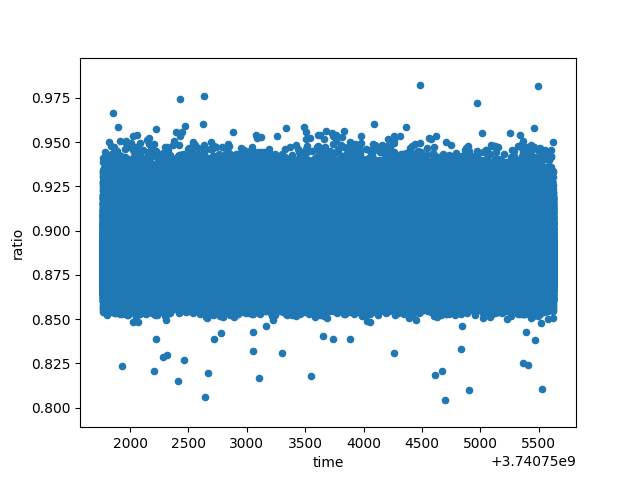
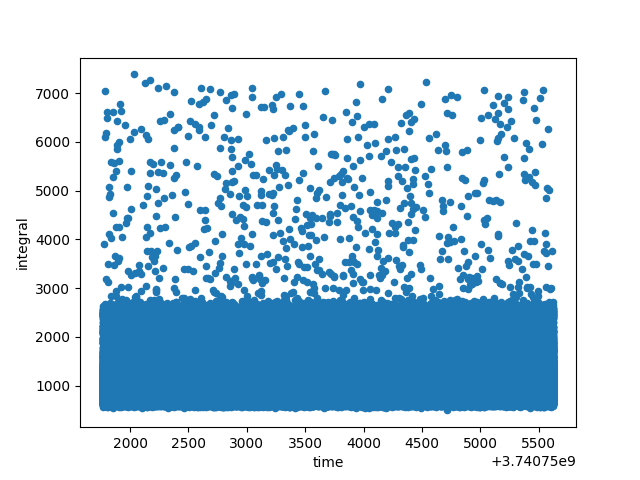
created separate classes for differente channels

diff --git a/fastdata_pannel/fastdata.py b/fastdata_pannel/fastdata.py
@@ -20,10 +20,8 @@ for file in os.listdir(mostRecentDir):
 
 df = read_root('/home/caio/Documents/processing_data/mx_b_20180716_1742/mx_b_20180716_1742_000000.root', columns=['channel','integral','time','istestpulse','error','baseline','rms','ratio','height'])
 df = df[(df['channel']==3) & (df.error==0)]
-#df['time'] = df['time'] - 2208988800
-#df['time'] = pd.to_datetime(df['time'], unit = 's')
 
-plot = df.plot.scatter(x='time',y='ratio')
+plot = df.plot.scatter(x='time',y='integral')
 ax = plt.gca()
 fig = plot.get_figure()
 fig.savefig('testfig.png')
